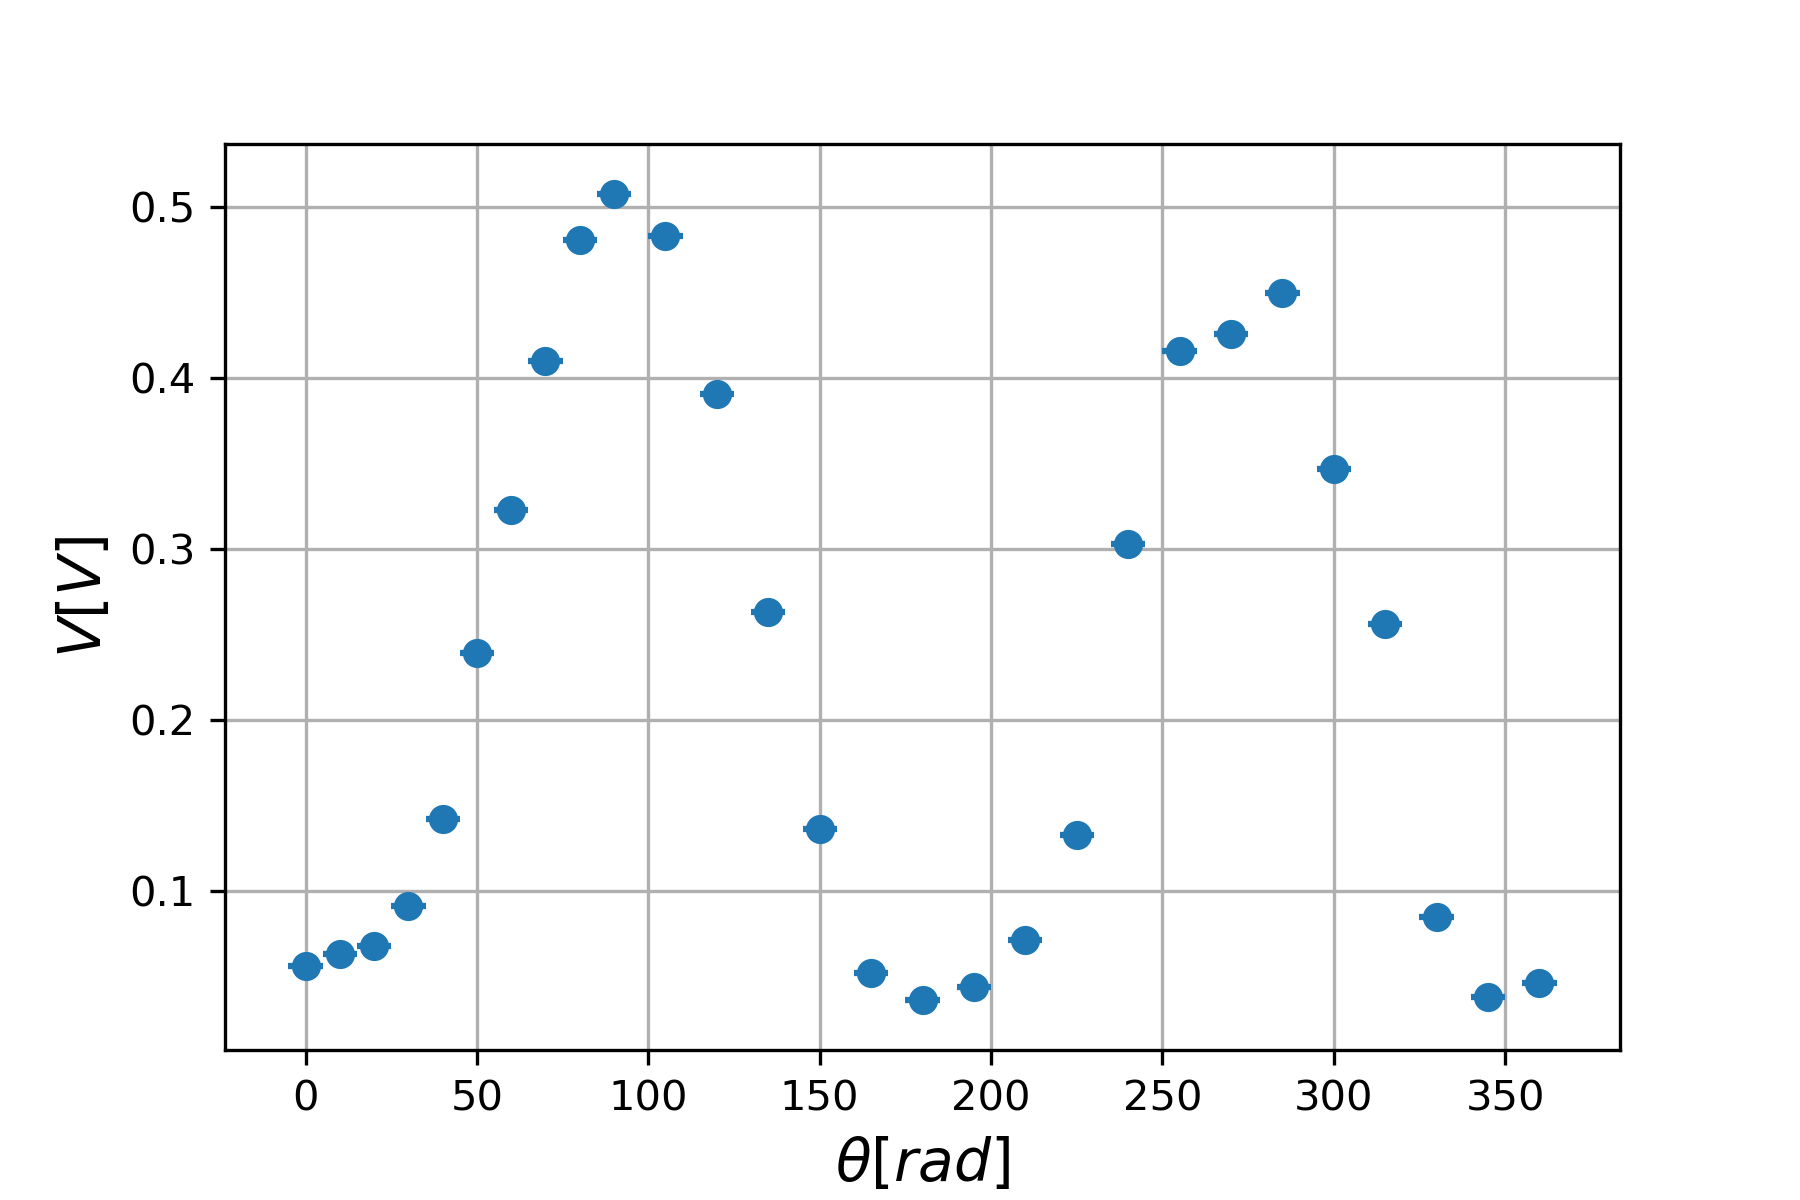
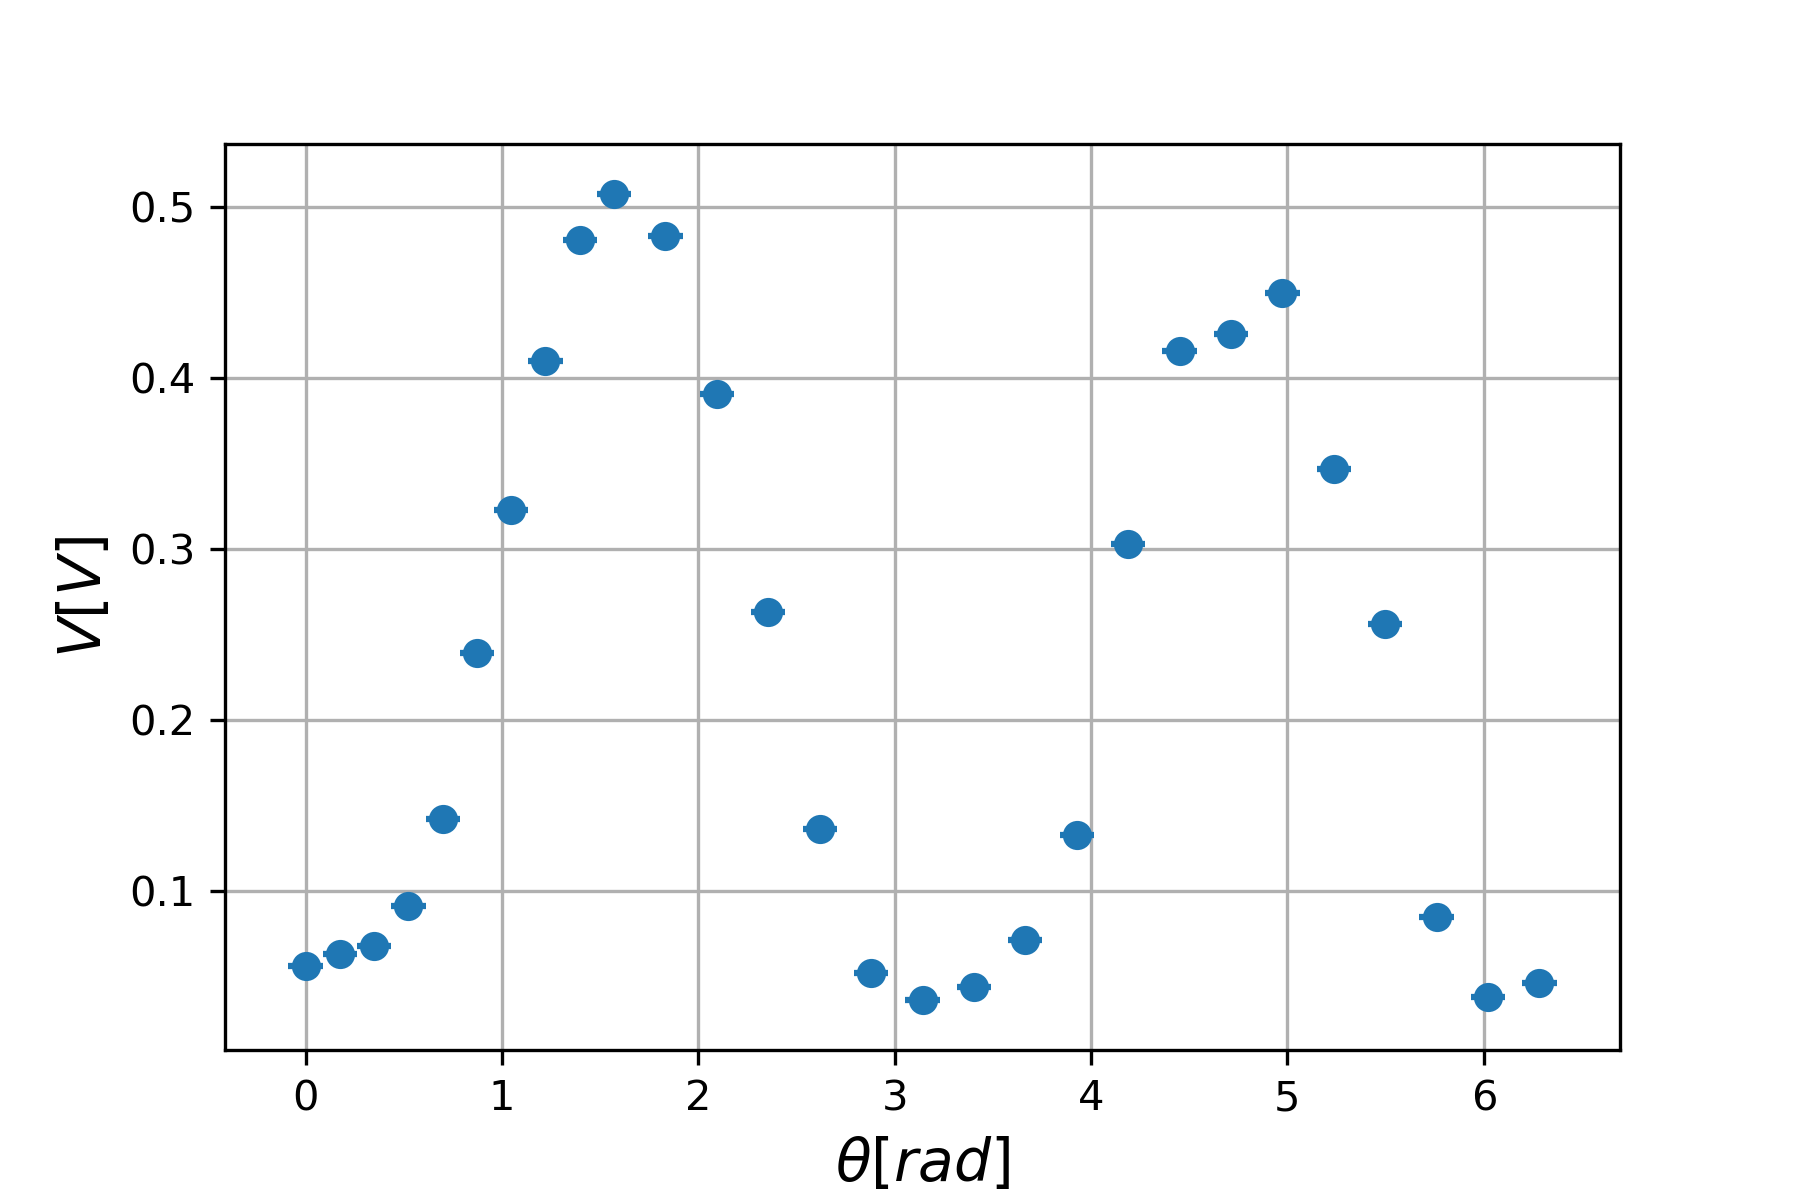
.

diff --git a/exp4 - micro/macro.py b/exp4 - micro/macro.py
@@ -13,7 +13,7 @@ from uncertainties.unumpy import std_devs as uerr
 
 
 # helper function for plotting data and regression
-def one4all(xdata,ydata,yerr=0,xerr=0,mode="general function",f=None,xlabel="x",ylabel="y"):
+def one4all(xdata,ydata,yerr=0,xerr=0,mode="general function",f=None,xlabel="x",ylabel="y",show=True):
     fig = plt.figure(dpi=300)
     plt.errorbar(xdata,ydata,yerr,xerr,"o",label="Data")
 
@@ -54,25 +54,31 @@ def one4all(xdata,ydata,yerr=0,xerr=0,mode="general function",f=None,xlabel="x",
     plt.grid()
     if mode != "none":
         plt.legend()
-
-    plt.show()
+        
+    if show:
+        plt.show()
     
     return (fig,fit)
 
-#prep question 7
-theta=np.array(range(0,9,1))*np.pi/4
-#E1=E2
-E2=1
-E1=1
-size_of_E = np.sqrt((E1*np.sin(theta))**2 +(E2*np.sin(theta+np.pi/2))**2)
-dir_of_E= np.arccos(E1*np.sin(theta)/size_of_E)
-fig0, ax0 = plt.subplots(subplot_kw={'projection': 'polar'})
-ax0.plot(dir_of_E,size_of_E)
-ax0.set_rmax(2)
-ax0.set_rlabel_position(-22.5)
-ax0.grid(True)
-ax0.set_title("axial plot of E for multiple values of wt")
-plt.show()
+def Rsqrue(x,y):
+    RSS = np.sum((y-x)**2)
+    TSS = np.sum(y**2)
+    return 1 - RSS/TSS
+#%%
+# #prep question 7
+# theta=np.array(range(0,9,1))*np.pi/4
+# #E1=E2
+# E2=1
+# E1=1
+# size_of_E = np.sqrt((E1*np.sin(theta))**2 +(E2*np.sin(theta+np.pi/2))**2)
+# dir_of_E= np.arccos(E1*np.sin(theta)/size_of_E)
+# fig0, ax0 = plt.subplots(subplot_kw={'projection': 'polar'})
+# ax0.plot(dir_of_E,size_of_E)
+# ax0.set_rmax(2)
+# ax0.set_rlabel_position(-22.5)
+# ax0.grid(True)
+# ax0.set_title("axial plot of E for multiple values of wt")
+# plt.show()
 
 # part 1 - lattice as a polarizor
 # wo lattice
@@ -108,16 +114,31 @@ for fig in fig_array:
     fname =str( "fig/plot" + str(fig_array.index(fig) + 1))
     fig.savefig(fname)
 
+f1 = lambda x,a,b: a*np.abs(np.cos(b*x))
+f2 = lambda x,a,b: a*np.cos(b*x)**2
+fit_f1 = cfit(f1,uval(theta*np.pi/180),uval(intensity))
+fit_f2 = cfit(f2,uval(theta*np.pi/180),uval(intensity))
+Rsqrue1 = Rsqrue(f1(uval(theta*np.pi/180),*fit_f1[0]),uval(intensity))
+Rsqrue2 = Rsqrue(f2(uval(theta*np.pi/180),*fit_f2[0]),uval(intensity))
+
 #cos_theta_squared_err=theta_err*np.sin(2*theta)
 fig4=plt.figure()
 ax4=plt.axes(polar=True)
 #ax4.plot(uval(theta*np.pi/180),uval(intensity),"ro")
 ax4.errorbar(uval(theta*np.pi/180),uval(intensity),uerr(intensity),uerr(theta*np.pi/180),"o")
+ax4.plot(uval(theta*np.pi/180),f1(uval(theta*np.pi/180),*fit_f1[0]),"-.",label=r"$|a\cos(b\theta)|$")
+ax4.plot(uval(theta*np.pi/180),f2(uval(theta*np.pi/180),*fit_f2[0]),"-.",color="black",label=r"$a\cos^2(b\theta)$")
+
 plt.grid(True)
+ax4.legend()
 plt.show()
 fig4.savefig("fig/plot6")
 
-(fig12,fit12)=one4all(uval(theta),uval(intensity),uerr(intensity),uerr(theta),"none",None,r"$\theta [rad]$","$V [V]$")
+(fig12,fit12)=one4all(uval(theta*np.pi/180),uval(intensity),uerr(intensity),uerr(theta*np.pi/180),"none",None,r"$\theta [rad]$","$V [V]$",show=False)
+plt.plot(uval(theta*np.pi/180),f1(uval(theta*np.pi/180),*fit_f1[0]),"-.",label=r"$|a\cos(b\theta)|$")
+plt.plot(uval(theta*np.pi/180),f2(uval(theta*np.pi/180),*fit_f2[0]),"-d",color="black",label=r"$a\cos^2(b\theta)$")
+plt.legend()
+plt.show()
 fig12.savefig("fig/plot5")
 #%%
 
@@ -149,16 +170,18 @@ for fig in fig_array:
     fname =str( "fig/plot" + str(fig_array.index(fig) + 7))
     fig.savefig(fname)
 
+
+
+
 fig4=plt.figure()
 ax4=plt.axes(polar=True)
 #ax4.plot(uval(theta*np.pi/180),uval(intensity),"ro")
 ax4.errorbar(uval(theta*np.pi/180),uval(intensity),uerr(intensity),uerr(theta*np.pi/180),"o")
 plt.grid(True)
-plt.show()
 fig4.savefig("fig/plot12")
 
 
-(fig12,fit12)=one4all(uval(theta),uval(intensity),uerr(intensity),uerr(theta),"none",None,r"$\theta [rad]$","$V [V]$")
+(fig12,fit12)=one4all(uval(theta*np.pi/180),uval(intensity),uerr(intensity),uerr(theta*np.pi/180),"none",None,r"$\theta [rad]$","$V [V]$")
 fig12.savefig("fig/plot11")
 
 '''
@@ -193,7 +216,7 @@ plt.xlabel("d [m]", fontsize=14)
 plt.ylabel("$V [V]$", fontsize=14)
 plt.grid()
 plt.show()
-fig.savefig("fig/plot13")
+fig3.savefig("fig/plot13")
 
 
 # (fig,fit) = one4all(d[3:],intensity[3:],0,0,"linear")
